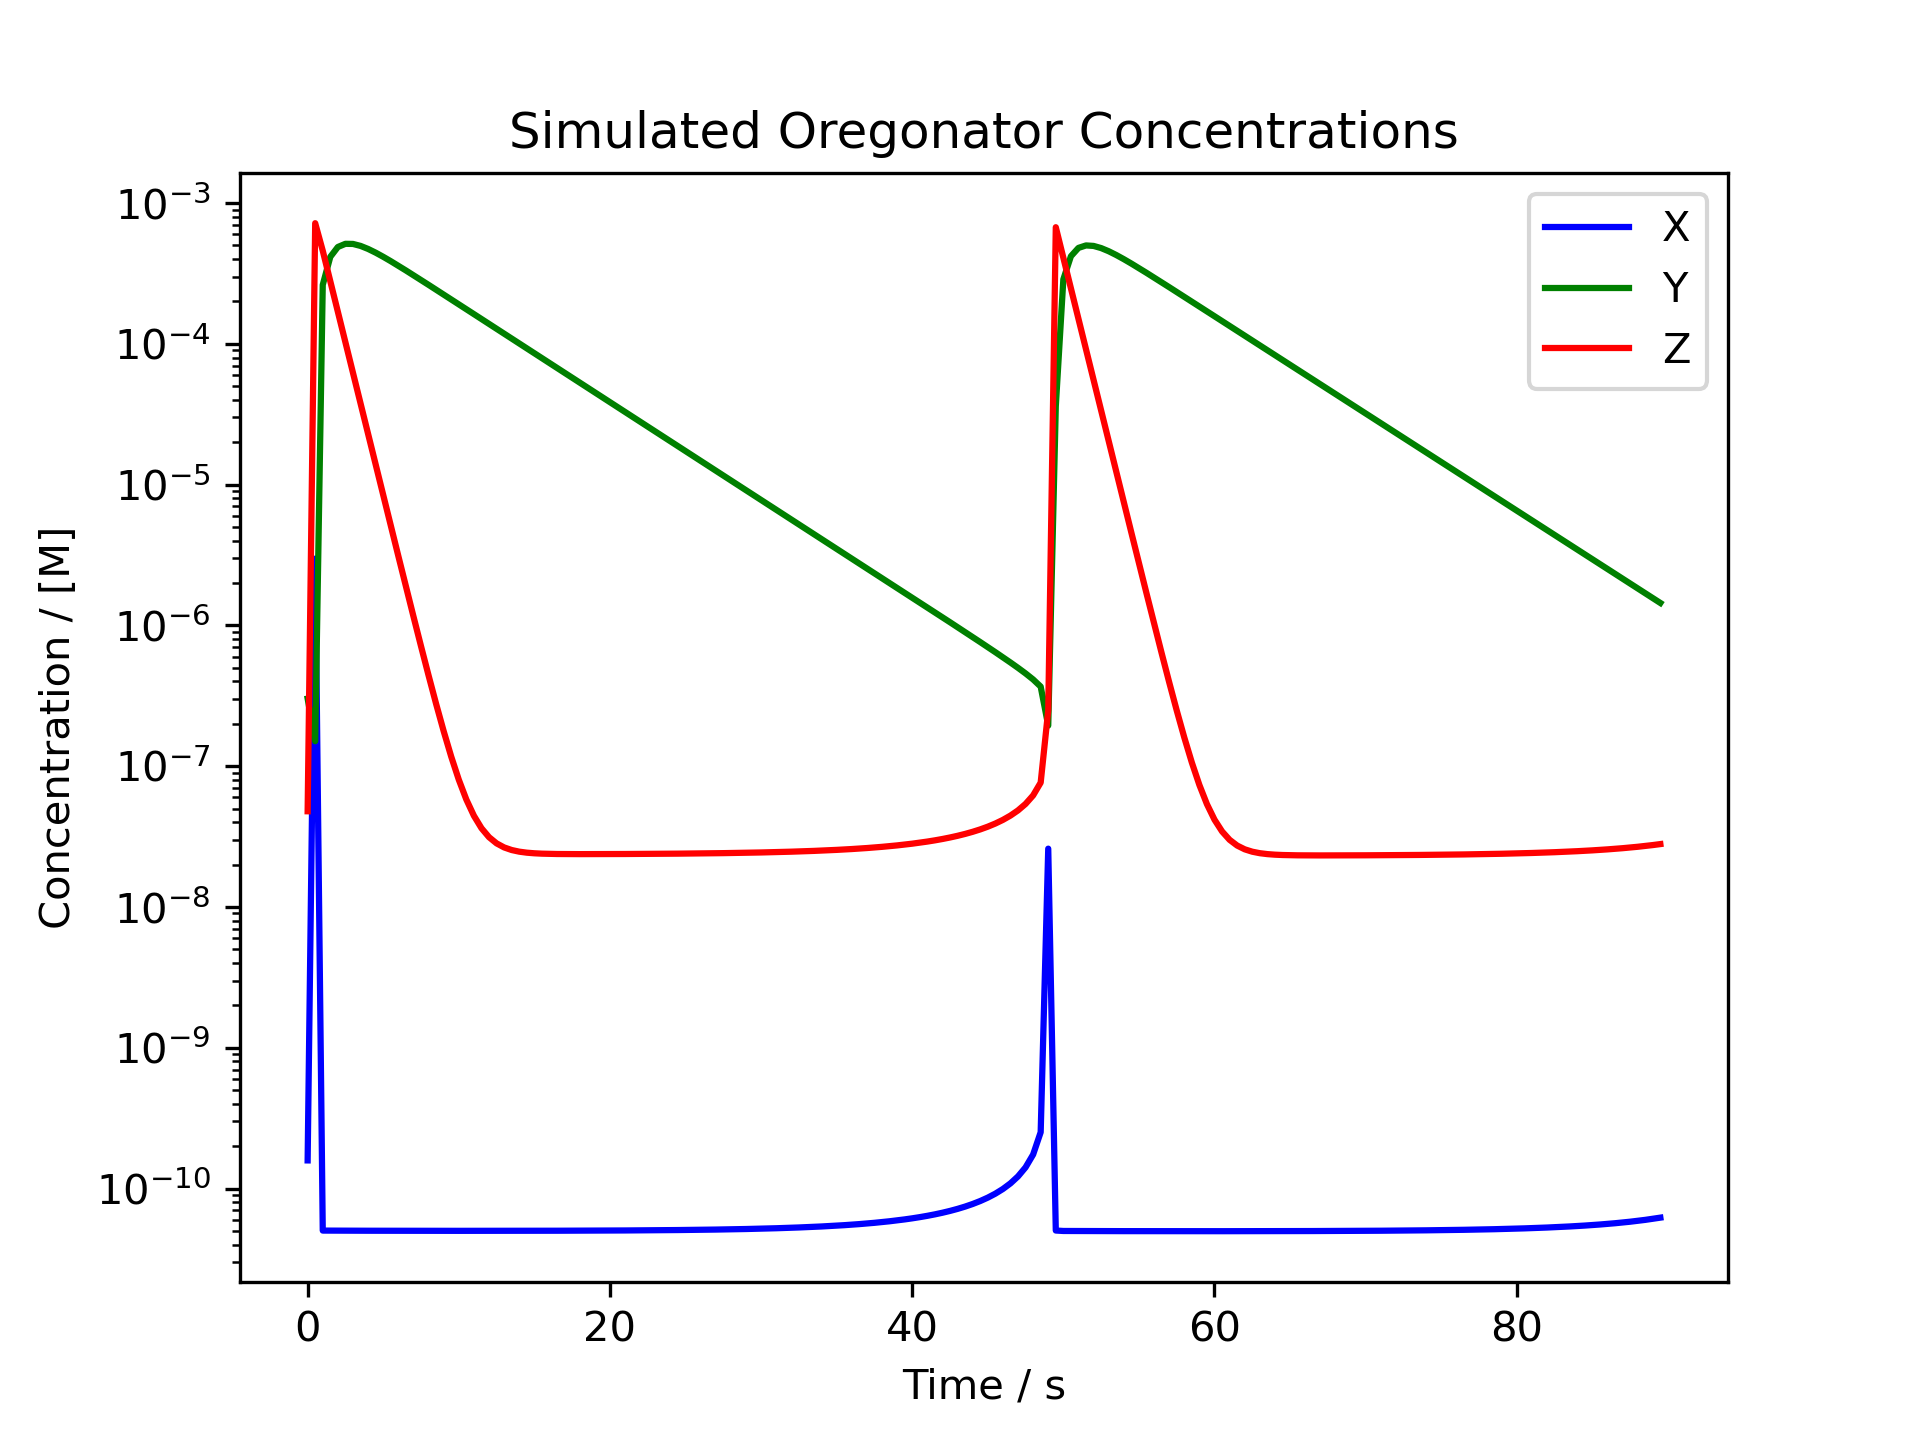
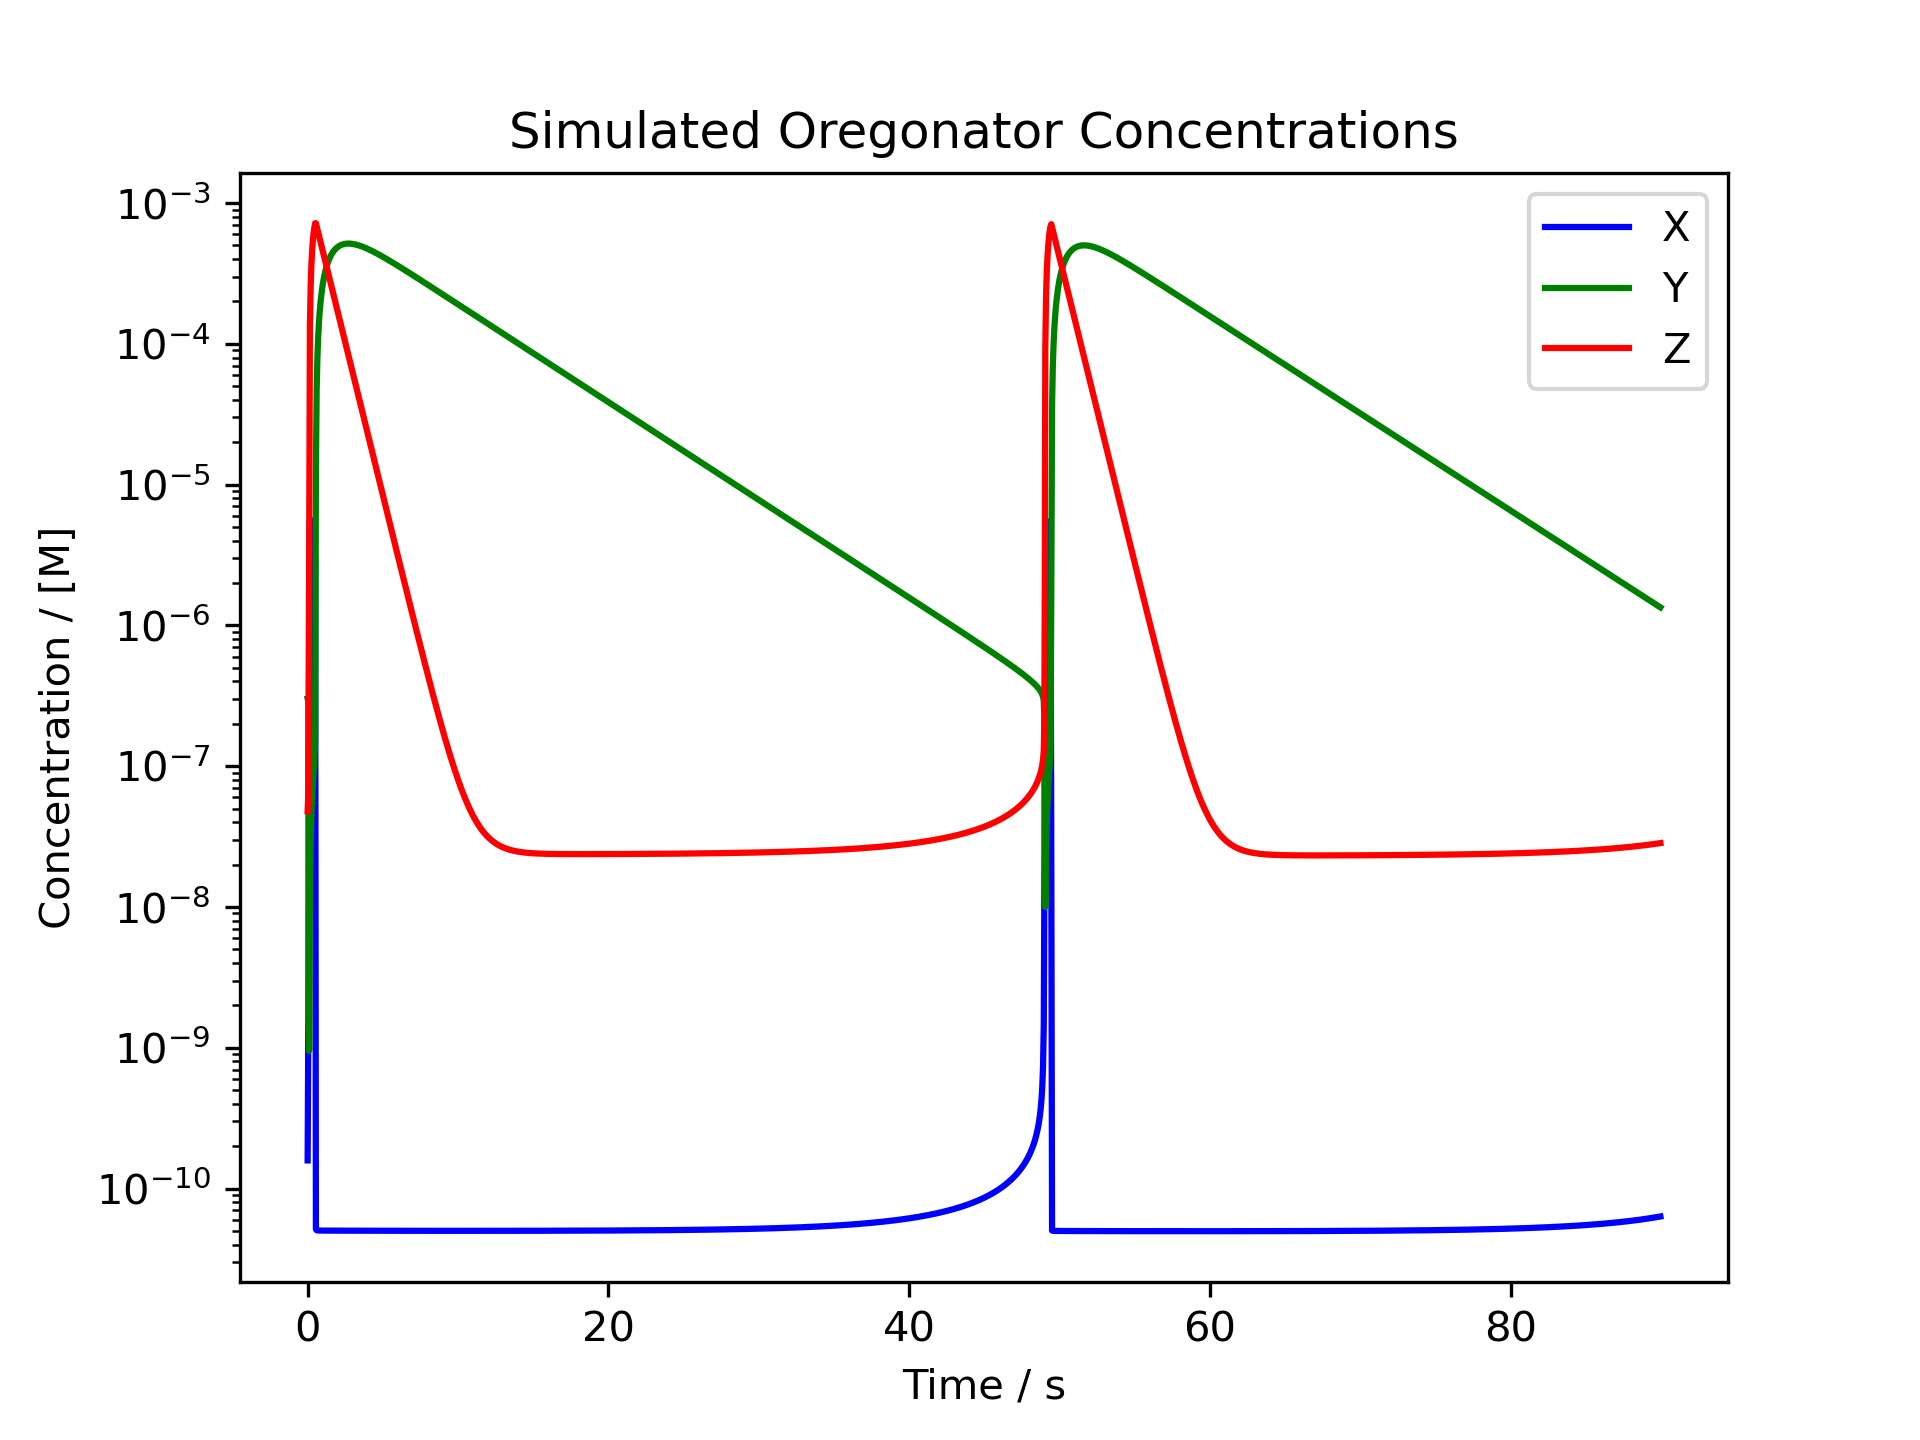
added numba for some extra speed

diff --git a/prac32.py b/prac32.py
@@ -1,34 +1,43 @@
 from scipy.integrate import solve_ivp
 import numpy as np
-import matplotlib.pyplot as plt
 import pandas as pd
 import pickle
 import time
+from numba import jit, float64
 
-# Define rate constants globally for speed
-k1 = 1.34 * pow(10, 0)
-k2 = 1.6 * pow(10, 9)
-k3 = 8 * pow(10, 3)
-k4 = 4 * pow(10, 7)
-k5 = 1 * pow(10, 0)
+## state = np.array([r1,r3, -1 * r1 -r2,r4,-1 * r1 + r2 -r3 - 2 * r4,
+##                  r1 + r2 + r5, -1 * r3 - r5])
+@jit(nopython=True)
+def ODE_func(t, state, k1, k2, k3, k4 ,k5):
+    "returns d(state)/dt for the integrator"
+    ##        A, B, P, Q, X, Y, Z
+    ## state: 0, 1, 2, 3, 4, 5, 6
+    ## Sacrificing some readability for speed here: creating arrays is slow
 
-def ODE_func(t, state):
-
-    ## A, B, P, Q, X, Y, Z
-    ## 0, 1, 2, 3, 4, 5, 6
-    ## Sacrificing some readability for speed here
-    r1 = -1 * k1 * state[0] * state[5]
-    r2 = -1 * k2 * state[4] * state[5]
-    r3 = -1 * k3 * state[1] * state[4]
+    r1 = -1. * k1 * state[0] * state[5]
+    r2 = -1. * k2 * state[4] * state[5]
+    r3 = -1. * k3 * state[1] * state[4]
     r4 = k4 * state[4] * state[4]
     r5 = k5 * state[6]
+    """
+    This, oddly, does not work, something to do with how variables are stored, which is a shame
+    because it would be much faster with numba if it did
+    state[0] = r1
+    state[1] = r3
+    state[2] = (-1 * r1) - r2
+    state[3] = r4
+    state[4] = (-1 * r1) + r2 - r3 - (2 * r4)
+    state[5] =  r1 + r2 + r5
+    state[6] = (-1 * r3) - r5
+    """ 
+    return [r1,r3, -1. * r1 -r2,r4,-1. * r1 + r2 -r3 - 2 * r4, r1 + r2 + r5, -1. * r3 - r5]
 
-    return np.array([r1,r3, -1 * r1 -r2,r4,-1 * r1 + r2 -r3 - 2 * r4,
-                    r1 + r2 + r5, -1 * r3 - r5])
 
-def getjac(t, state):
-    ## Jacobian = df_i / dy_j ; needed here to obtain reasonable results with
-    ## the stiff solver method Radau
+def getjac(t, state, k1, k2, k3, k4, k5):
+    """Jacobian = df_i / dy_j ; needed here to obtain reasonable results with
+    the stiff solver method Radau. it is actually slower to use jit here because
+    creating numpy arrays with numba is very slow"""
+
 
     jac = np.zeros((7,7))
     jac[0][0] = -1 * k1 * state[5]
@@ -53,13 +62,11 @@ def getjac(t, state):
 
     return jac
 
-## Define initial conditions, again global for speed
-initial = np.array([0.06, 0.06, 0, 0, 1 * pow(10, -9.8), 1 * pow(10, -6.52), 1 * pow(10, -7.32)])
 
 def sampler(T, X, Y, Z):
-
-    ## Take only some of the data (there is far more than required for the plot)
-    indices = np.arange(0, len(T), 100)
+    "Takes samples at regular intervals from the data since there is more than required"
+    
+    indices = np.arange(0, len(T), 1000)
     T = np.take(T, indices)
     X = np.take(X, indices)
     Y = np.take(Y, indices)
@@ -68,40 +75,39 @@ def sampler(T, X, Y, Z):
     return T, X, Y, Z
 
 def run_reac():
-
+    "Defines constants and solves integration, then saves data"
     ## Define time interval and time step
     tmin, tmax, dt = 0, 90, 5 * pow(10,-5)
     t_eval = np.arange(tmin,tmax,dt)
 
+    ## Define rate constants and initial conditions
+ 
+    k1 = 1.34 * pow(10, 0)
+    k2 = 1.6 * pow(10, 9)
+    k3 = 8. * pow(10, 3)
+    k4 = 4. * pow(10, 7)
+    k5 = 1. * pow(10, 0)
+    initial = np.array([0.06, 0.06, 0., 0., 1. * pow(10, -9.8), 1. * pow(10, -6.52), 1. * pow(10, -7.32)])
+
     ## Scipy uses c / fortran and is much quicker than anything I could write
-    sol = solve_ivp(ODE_func, [tmin, tmax], initial, t_eval=t_eval, dense_output=False, vectorized=True, method = "Radau", jac = getjac)
+    ## Since this system is 'stiff' (potentially unstable), Radau and BDF are recommended
+    ## Radau seems to give smoothest behaviour
+
+    sol = solve_ivp(ODE_func, [tmin, tmax], initial, t_eval=t_eval, dense_output=False, 
+    vectorized=True, method = "Radau", args = (k1, k2, k3, k4, k5), jac = getjac)
 
     ## Extract relevant data from solve_ivp output
     T, X, Y, Z = sampler(sol.t, sol.y[4], sol.y[5], sol.y[6])
 
-    ## Dataframes and pickle much quicker than saving as raw text
+    ## Dataframes and pickling much quicker than saving as raw text
     BZ = pd.DataFrame(np.column_stack([T, X, Y, Z]), 
         columns=['Time', 'X', 'Y', 'Z'])
 
-    BZ.to_pickle('BZdf_test.pkl')
+    BZ.to_pickle('BZdf_newest.pkl')
 
-
+## Measure time taken
 start_time = time.time()
-
 run_reac()
 
 print("--- %s seconds ---" % (time.time() - start_time))
-
-
-
-
- 
-
-
-
-
-
-
-
-
 

diff --git a/prac3.py b/prac3.py
@@ -4,7 +4,7 @@ from scipy.integrate import solve_ivp
 import numpy as np
 
 def fold(urea):
-
+    "This does the folding simulation"
     ## Define Rates as they vary with urea concentration
     k= np.zeros(4)
     k[0] = 26000 * pow(np.e, -1.68 * urea)
@@ -58,7 +58,7 @@ def fold(urea):
     print(tmax)
     return State, sol_tot, t_tot
 
-def graph_fold():
+def save_fold():
 
     D, I, N = [], [], []
     urea = np.arange(0,9,0.2)
@@ -70,11 +70,9 @@ def graph_fold():
         I.append(St[1])
         N.append(St[2])
 
-    
-
     with open("folding.dat", "w") as f:
         f.write("# U \t D \t I \t N \n") 
         for udin in zip(urea, D, I, N): 
             f.write("\t".join([str(n) for n in udin])+ "\n")
-    
-graph_fold()
+
+save_fold()

diff --git a/prac32plot.py b/prac32plot.py
@@ -5,7 +5,7 @@ import pandas as pd
 
 ## Stackexchange user "NumPy's loadtxt is impressively slow"
 
-df = pd.read_pickle('BZdf_test.pkl')
+df = pd.read_pickle('BZdf_newest.pkl')
 ax = plt.gca()
 
 plt.yscale('log')
